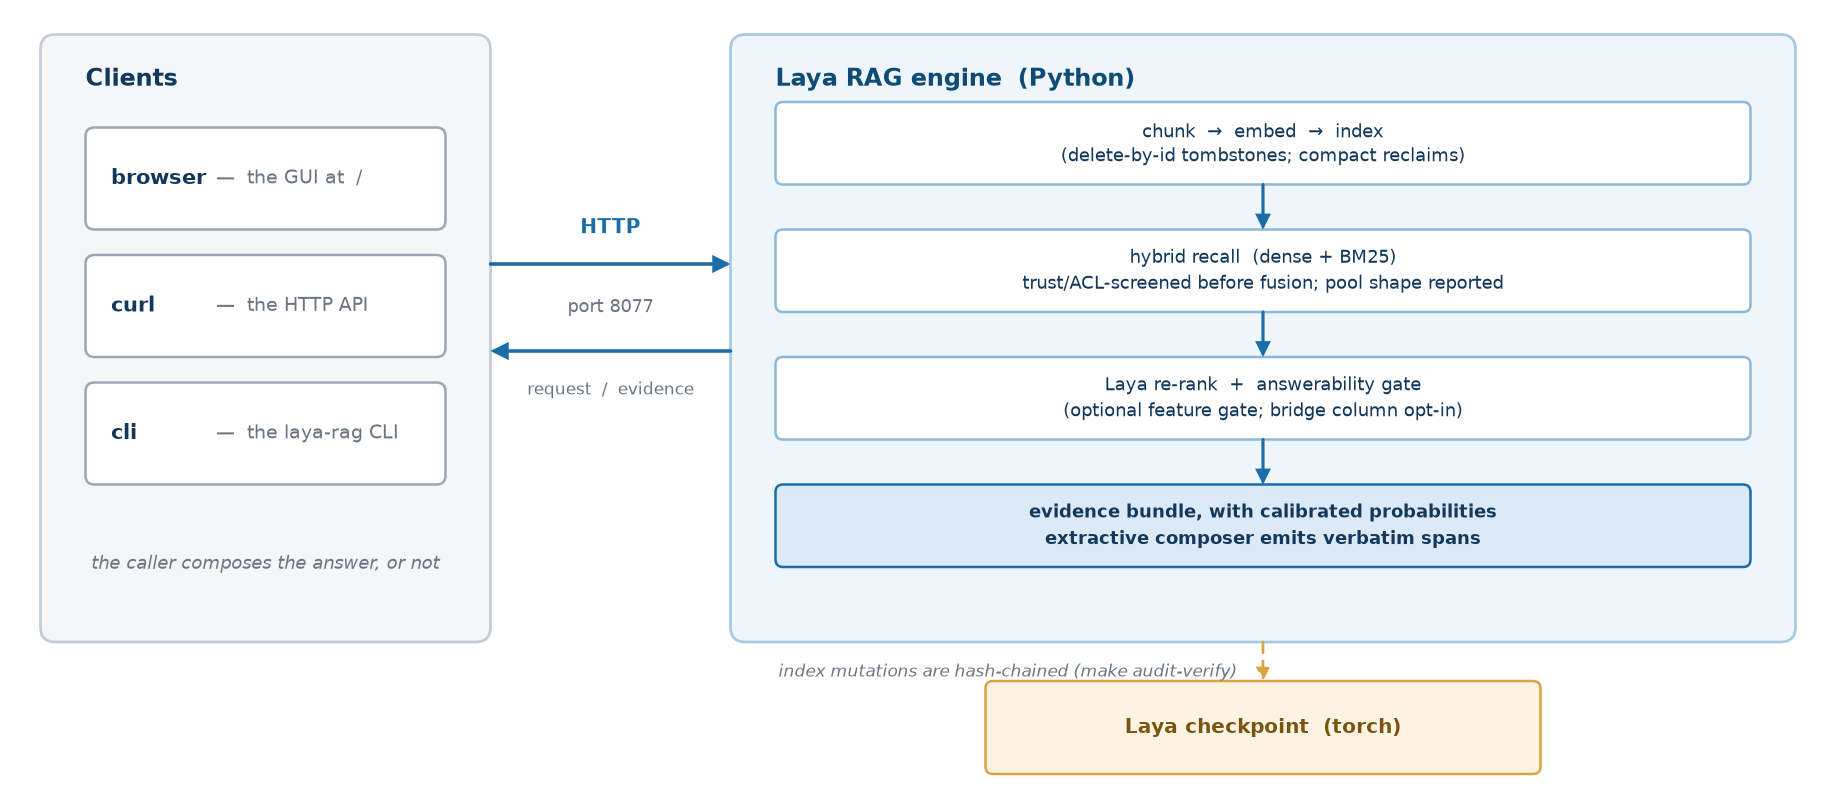
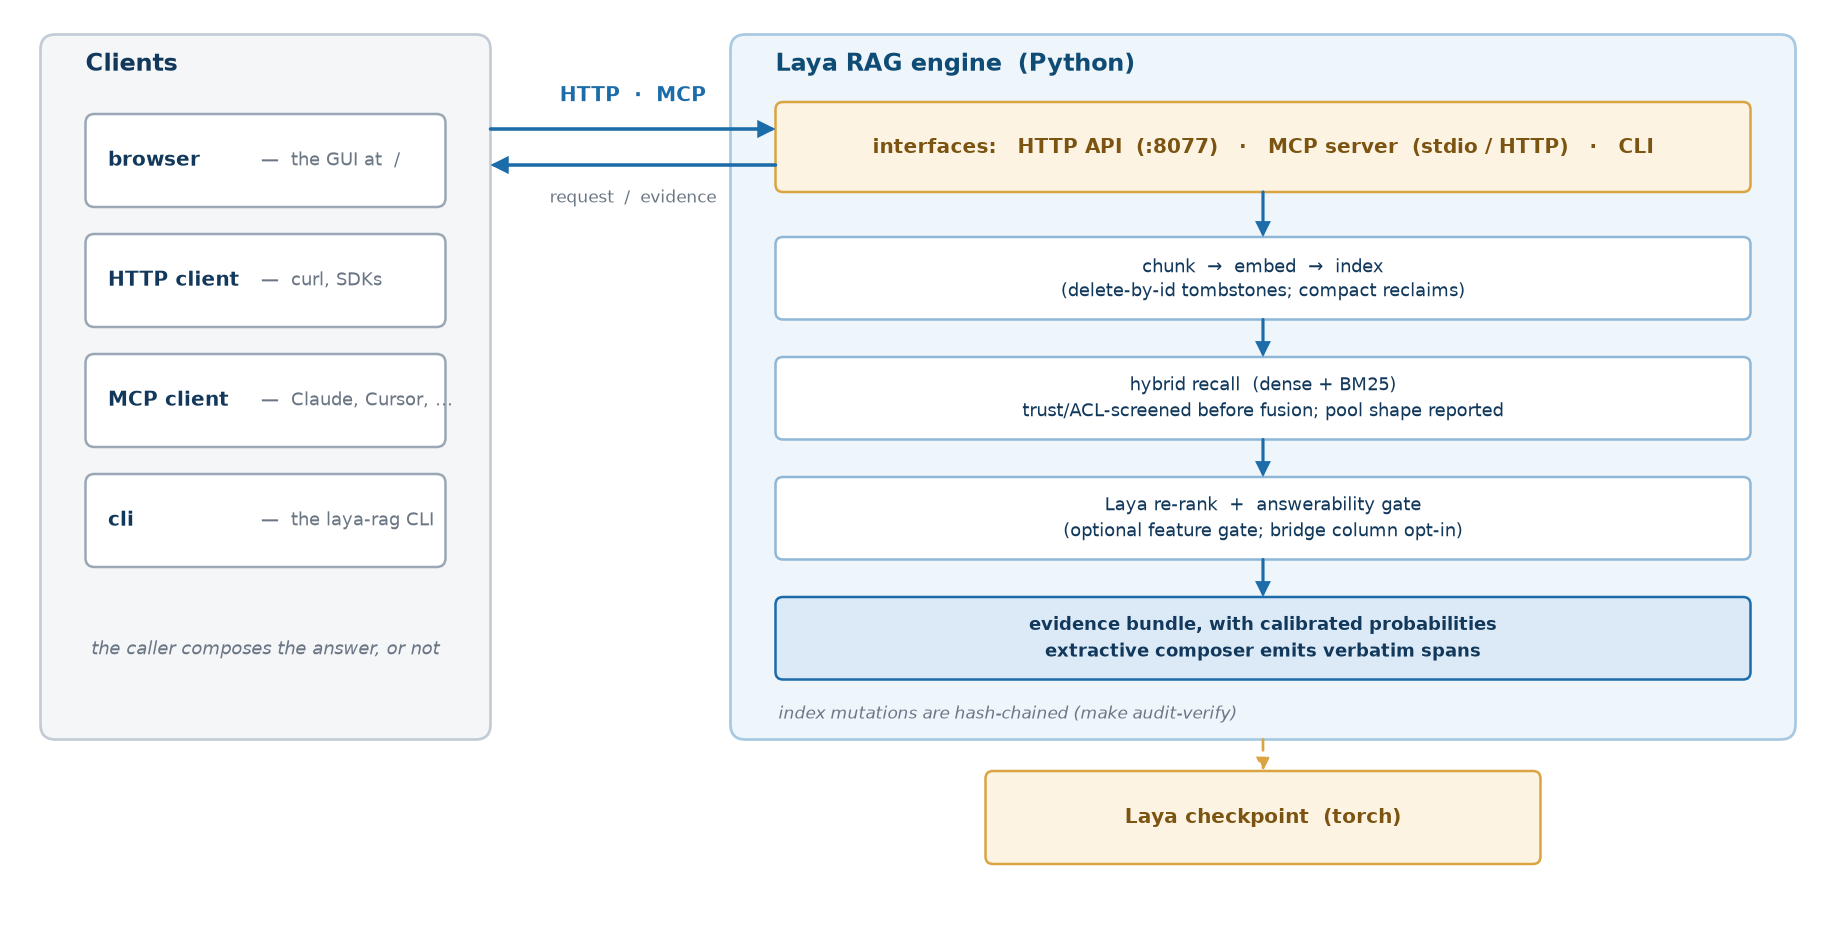
docs(readme): the architecture diagram now shows the API and MCP surfaces
The first diagram listed browser/curl/cli and never named MCP. It now has an explicit 'interfaces'
row on the engine side -- HTTP API (:8077) / MCP server (stdio or HTTP) / CLI -- an 'MCP client'
(Claude, Cursor) beside an 'HTTP client', and the wire is labelled 'HTTP . MCP'. The alt text says
the same. Regenerated with tools/diagram.py.

diff --git a/tools/diagram.py b/tools/diagram.py
@@ -69,50 +69,58 @@ def _arrow(ax, start, end, *, color=BLUE, lw=1.7, style="-|>", linestyle="-",
 
 def draw(out: Path) -> None:
     plt = _plt()
-    fig = plt.figure(figsize=(12, 5.8))
+    fig = plt.figure(figsize=(12, 6.6))
     ax = fig.add_axes([0, 0, 1, 1])
     ax.set_xlim(0, 12)
-    ax.set_ylim(0.42, 5.56)
+    ax.set_ylim(0.42, 6.36)
     ax.set_aspect("equal")
     ax.axis("off")
 
     # ── panels ───────────────────────────────────────────────────────────
-    _box(ax, 0.15, 1.40, 3.00, 4.05, "", face=PANEL_CLIENT, edge=EDGE_CLIENT,
+    _box(ax, 0.15, 1.55, 3.00, 4.70, "", face=PANEL_CLIENT, edge=EDGE_CLIENT,
          radius=0.10, lw=1.3, zorder=1)
-    _box(ax, 4.75, 1.40, 7.10, 4.05, "", face=PANEL_ENGINE, edge=EDGE_ENGINE,
+    _box(ax, 4.75, 1.55, 7.10, 4.70, "", face=PANEL_ENGINE, edge=EDGE_ENGINE,
          radius=0.10, lw=1.3, zorder=1)
 
-    ax.text(0.45, 5.15, "Clients", fontsize=11.5, fontweight="bold", color=INK,
+    ax.text(0.45, 6.05, "Clients", fontsize=11.5, fontweight="bold", color=INK,
             ha="left", va="center")
-    ax.text(5.05, 5.15, "Laya RAG engine  (Python)", fontsize=11.5, fontweight="bold",
+    ax.text(5.05, 6.05, "Laya RAG engine  (Python)", fontsize=11.5, fontweight="bold",
             color=BLUE_DEEP, ha="left", va="center")
 
     # ── clients ──────────────────────────────────────────────────────────
     clients = [
         ("browser", "the GUI at  /"),
-        ("curl", "the HTTP API"),
+        ("HTTP client", "curl, SDKs"),
+        ("MCP client", "Claude, Cursor, \u2026"),
         ("cli", "the laya-rag CLI"),
     ]
     for i, (name, detail) in enumerate(clients):
-        y = 4.15 - i * 0.85
-        _box(ax, 0.45, y, 2.40, 0.68, "", face="#ffffff", edge="#9aa7b4", radius=0.06)
-        ax.text(0.62, y + 0.34, name, fontsize=10, fontweight="bold", color=INK,
+        y = 5.10 - i * 0.80
+        _box(ax, 0.45, y, 2.40, 0.62, "", face="#ffffff", edge="#9aa7b4", radius=0.06)
+        ax.text(0.60, y + 0.31, name, fontsize=9.6, fontweight="bold", color=INK,
                 ha="left", va="center", zorder=4)
-        ax.text(1.32, y + 0.34, f"—  {detail}", fontsize=9, color=GREY,
+        ax.text(1.62, y + 0.31, f"\u2014  {detail}", fontsize=8.6, color=GREY,
                 ha="left", va="center", zorder=4)
 
-    ax.text(1.65, 1.92, "the caller composes the answer, or not", fontsize=8.8,
+    ax.text(1.65, 2.15, "the caller composes the answer, or not", fontsize=8.8,
             style="italic", color=GREY, ha="center", va="center")
 
-    # ── engine pipeline ──────────────────────────────────────────────────
+    # ── the three interfaces the engine exposes, then the pipeline ───────
+    xs, width = 5.05, 6.50
+    _box(ax, xs, 5.20, width, 0.60,
+         "interfaces:   HTTP API  (:8077)   \u00b7   MCP server  (stdio / HTTP)   \u00b7   CLI",
+         face=CHECK_FACE, edge=CHECK_EDGE, fontsize=9.4, weight="bold",
+         color="#7a5410", radius=0.05, lw=1.2)
+
     stages = [
         "chunk  \u2192  embed  \u2192  index\n(delete-by-id tombstones; compact reclaims)",
         "hybrid recall  (dense + BM25)\ntrust/ACL-screened before fusion; pool shape reported",
         "Laya re-rank  +  answerability gate\n(optional feature gate; bridge column opt-in)",
         "evidence bundle, with calibrated probabilities\nextractive composer emits verbatim spans",
     ]
-    xs, width, height = 5.05, 6.50, 0.55
-    ys = [4.45, 3.60, 2.75, 1.90]
+    height = 0.55
+    ys = [4.35, 3.55, 2.75, 1.95]
+    _arrow(ax, (xs + width / 2, 5.20), (xs + width / 2, ys[0] + height), lw=1.5, scale=13)
     for i, (text, y) in enumerate(zip(stages, ys)):
         last = i == len(stages) - 1
         _box(ax, xs, y, width, height, text,
@@ -124,25 +132,24 @@ def draw(out: Path) -> None:
             _arrow(ax, (xs + width / 2, ys[i - 1]), (xs + width / 2, y + height),
                    lw=1.5, scale=13)
 
-    ax.text(xs + 0.02, 1.20,
+    ax.text(xs + 0.02, 1.72,
             "index mutations are hash-chained (make audit-verify)",
             fontsize=8.4, style="italic", color=GREY, ha="left", va="center")
 
-    # ── the two directions across the wire ───────────────────────────────
-    _arrow(ax, (3.15, 3.92), (4.75, 3.92))
-    _arrow(ax, (4.75, 3.34), (3.15, 3.34))
-    ax.text(3.95, 4.16, "HTTP", fontsize=9.5, fontweight="bold", color=BLUE,
+    # ── the wire across to the interfaces: HTTP and MCP ──────────────────
+    _arrow(ax, (3.15, 5.62), (5.05, 5.62))
+    _arrow(ax, (5.05, 5.38), (3.15, 5.38))
+    ax.text(4.10, 5.84, "HTTP  \u00b7  MCP", fontsize=9.4, fontweight="bold", color=BLUE,
             ha="center", va="center")
-    ax.text(3.95, 3.63, "port 8077", fontsize=8.5, color=GREY, ha="center", va="center")
-    ax.text(3.95, 3.08, "request  /  evidence", fontsize=8.2, color=GREY,
+    ax.text(4.10, 5.16, "request  /  evidence", fontsize=8.2, color=GREY,
             ha="center", va="center")
 
     # ── checkpoint the engine loads ──────────────────────────────────────
     cx = 4.75 + 7.10 / 2
-    _box(ax, cx - 1.85, 0.52, 3.70, 0.62, "Laya checkpoint  (torch)",
+    _box(ax, cx - 1.85, 0.72, 3.70, 0.62, "Laya checkpoint  (torch)",
          face=CHECK_FACE, edge=CHECK_EDGE, fontsize=9.8, weight="bold",
          color="#7a5410", radius=0.05, lw=1.2)
-    _arrow(ax, (cx, 1.40), (cx, 1.14), color=CHECK_EDGE, lw=1.3,
+    _arrow(ax, (cx, 1.55), (cx, 1.34), color=CHECK_EDGE, lw=1.3,
            linestyle=(0, (4, 3)), style="-|>", scale=12)
 
     out.parent.mkdir(parents=True, exist_ok=True)

diff --git a/README.md b/README.md
@@ -5,7 +5,7 @@ retrieval and decision engine, with a command line, an HTTP API and a web interf
 
 Clients meet the engine over a local HTTP service:
 
-![Architecture: browser, curl and CLI clients call the local Python engine over HTTP on port 8077; the engine chunks, embeds and indexes (delete-by-id tombstones, compact reclaims), recalls with dense + BM25 screened by the trust/ACL predicate before fusion and reports the pool's shape, re-ranks and gates answerability with Laya (an optional feature gate, with the bridge-conditioned column opt-in), and returns an evidence bundle with calibrated probabilities, from which an extractive composer emits verbatim spans. Every index mutation is written to a hash-chained audit log. It loads a Laya torch checkpoint, and the caller composes the answer, or not.](docs/architecture.png)
+![Architecture: browser, HTTP and MCP clients, and the CLI reach the local Python engine through its three interfaces — an HTTP API on port 8077, an MCP server over stdio or HTTP, and the command line. The engine chunks, embeds and indexes (delete-by-id tombstones, compact reclaims), recalls with dense + BM25 screened by the trust/ACL predicate before fusion and reports the pool's shape, re-ranks and gates answerability with Laya (an optional feature gate, with the bridge-conditioned column opt-in), and returns an evidence bundle with calibrated probabilities, from which an extractive composer emits verbatim spans. Every index mutation is written to a hash-chained audit log. It loads a Laya torch checkpoint, and the caller composes the answer, or not.](docs/architecture.png)
 
 ## Why the split is shaped this way
 
